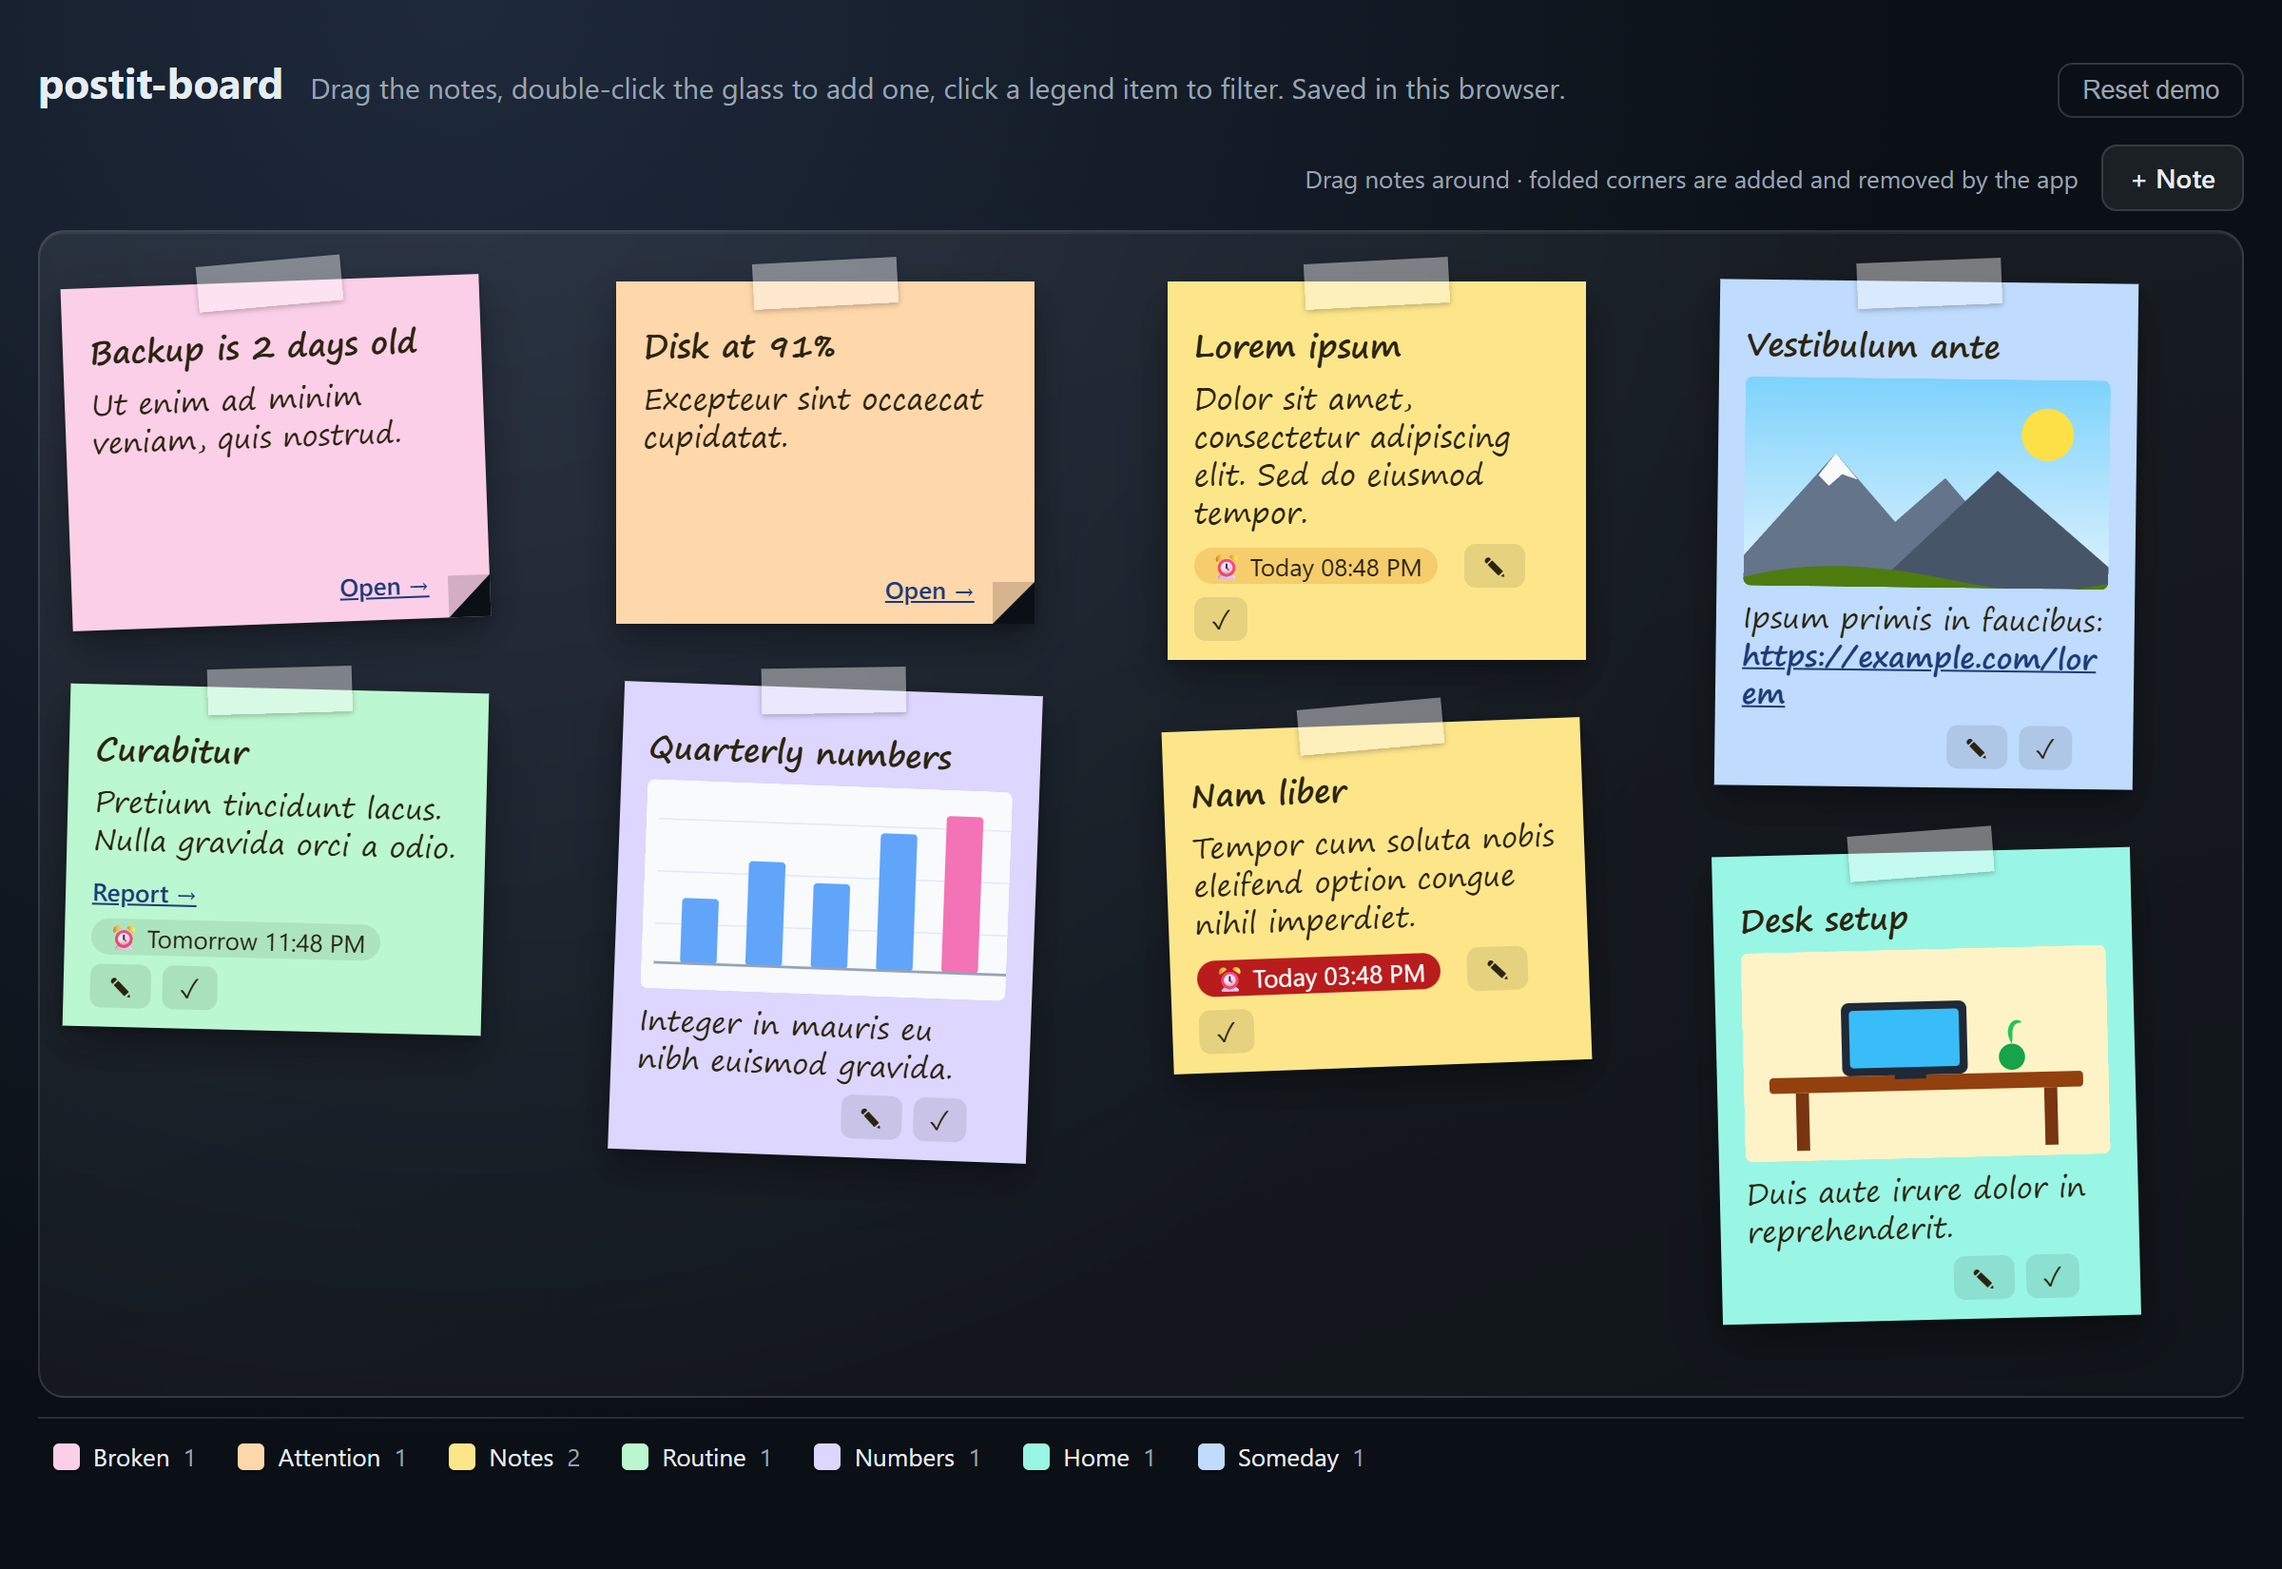
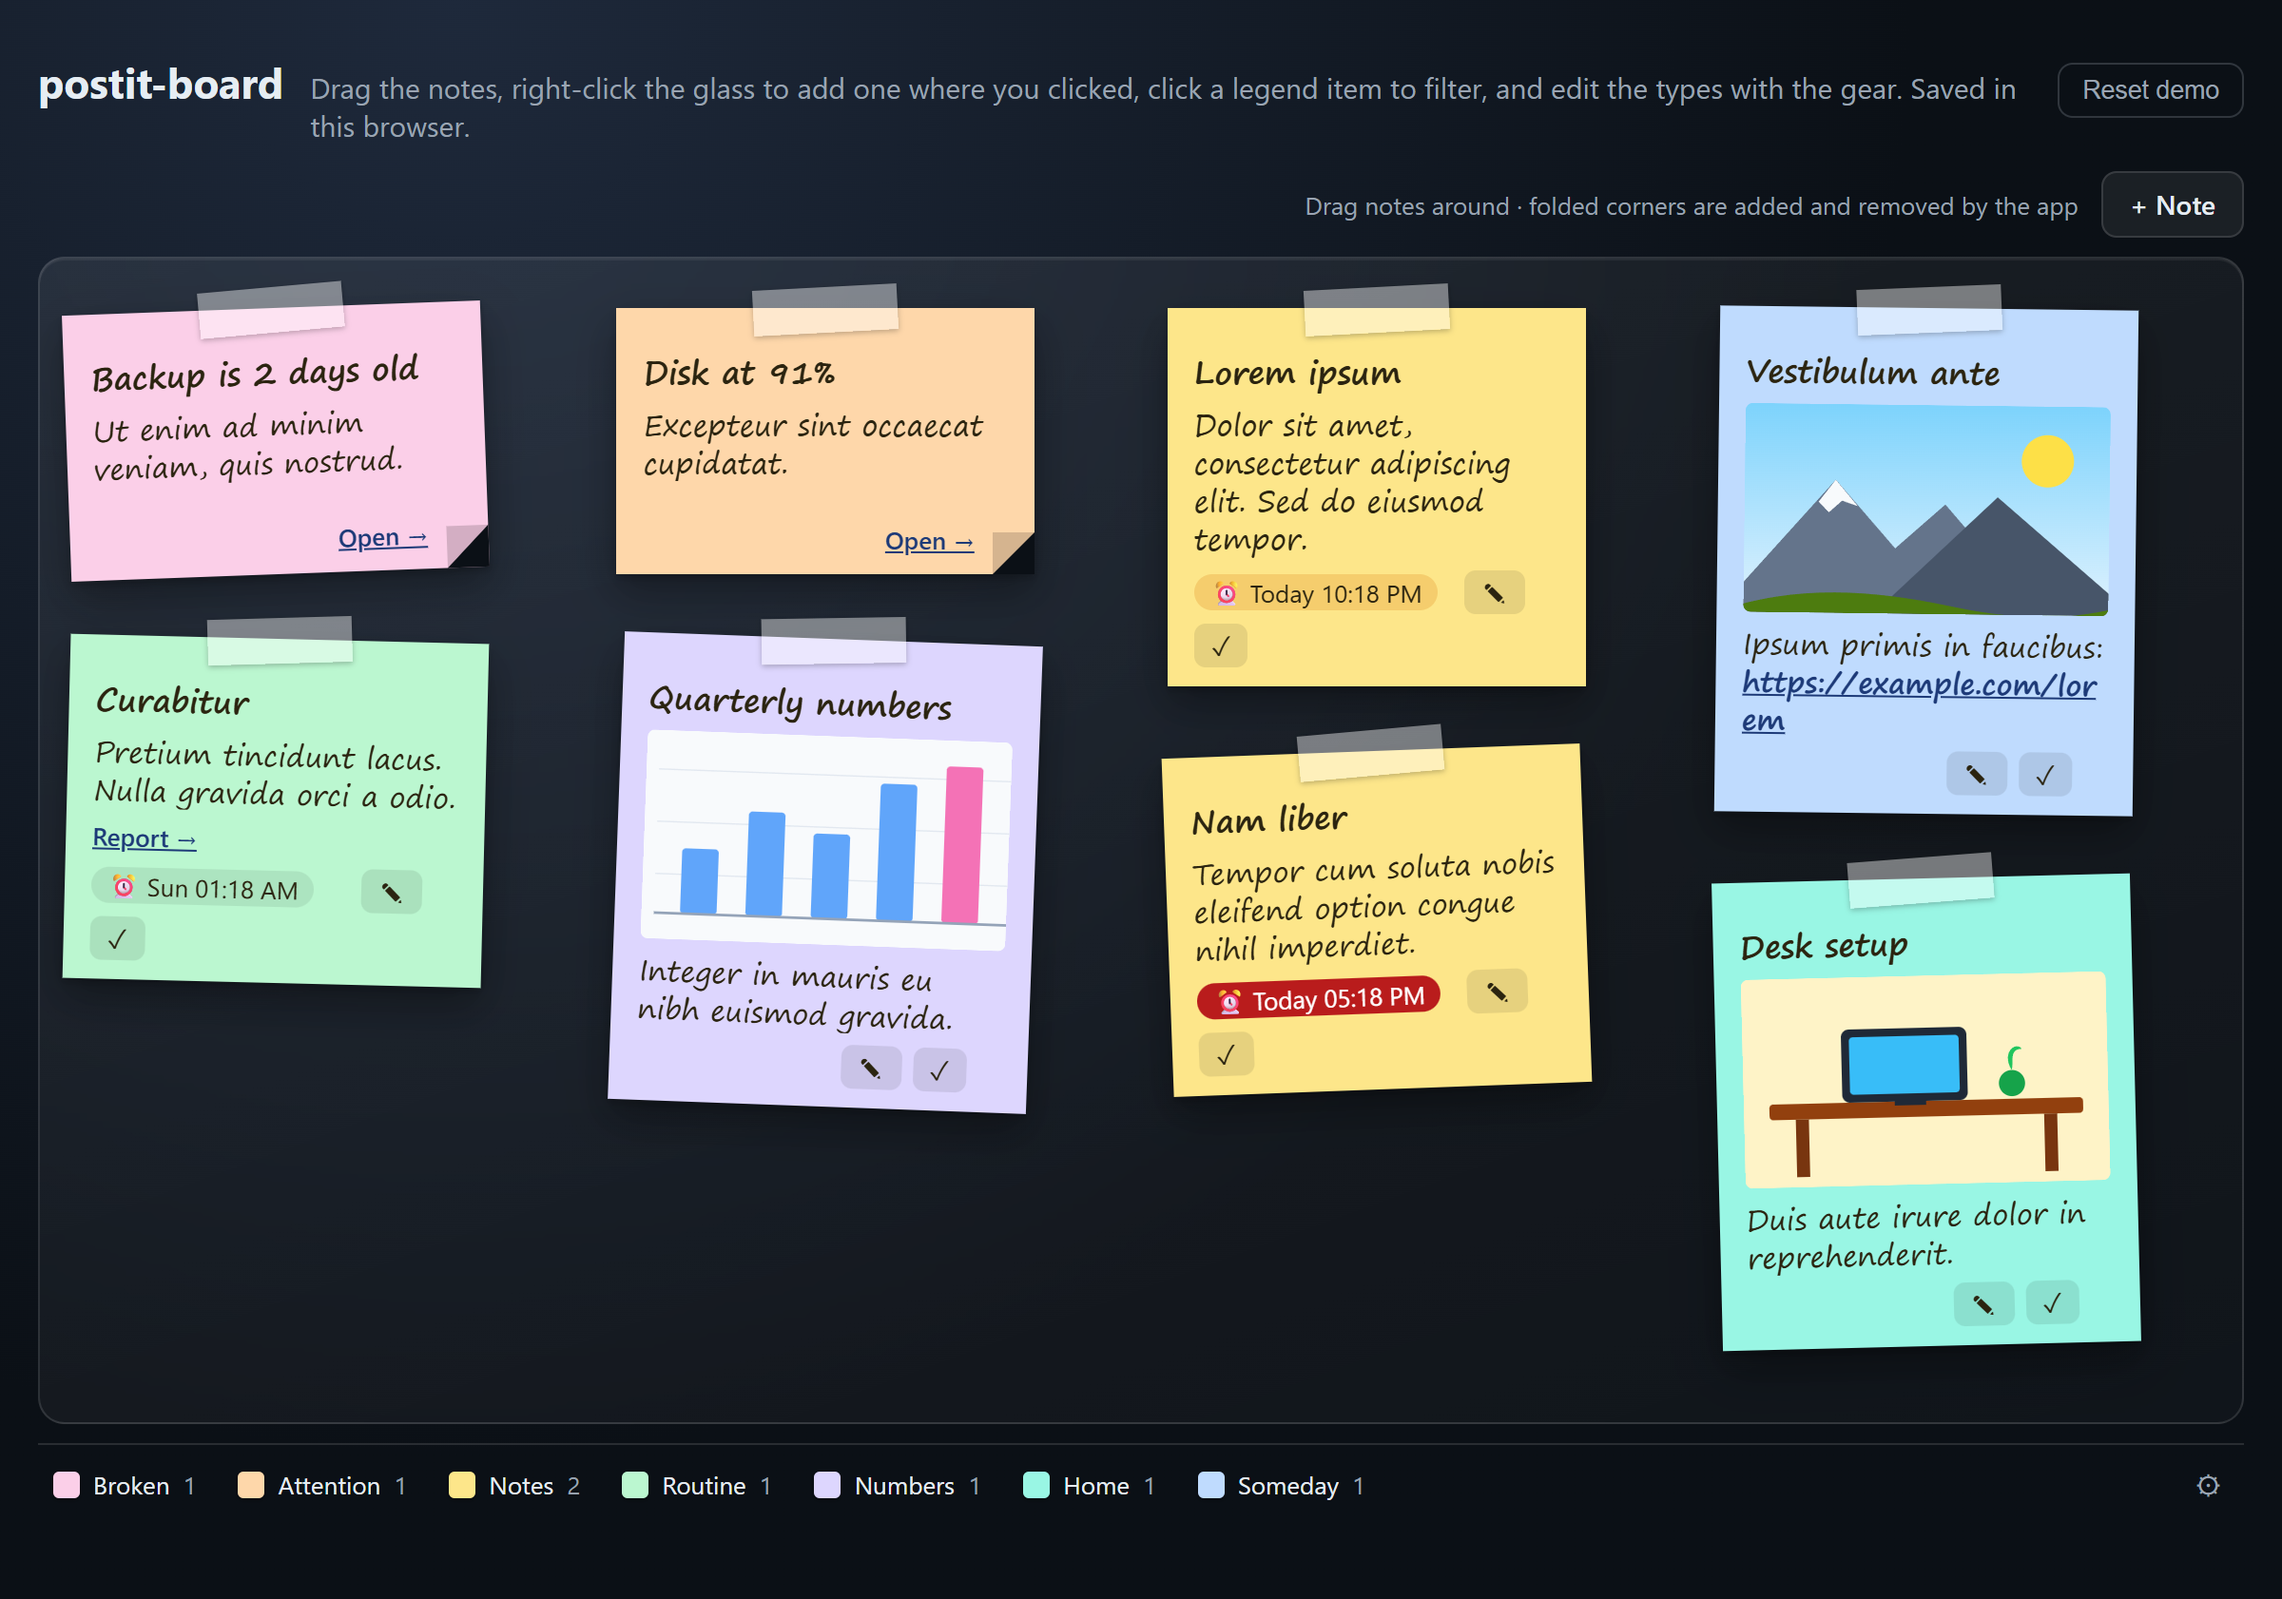
0.2.1: smaller notes, long text ends in an ellipsis

diff --git a/dist/postit-board.css b/dist/postit-board.css
@@ -9,7 +9,9 @@
   --pb-danger: #f87171;
   --pb-radius: 14px;
   --pb-note-width: min(220px, 23%);
-  --pb-note-min-height: 180px;
+  --pb-note-min-height: 140px;
+  --pb-title-lines: 2;
+  --pb-text-lines: 4;
   --pb-font: "Segoe Print", "Bradley Hand", "Comic Sans MS", cursive;
   --pb-ui-font: system-ui, -apple-system, "Segoe UI", Roboto, sans-serif;
   container-type: inline-size;
@@ -68,8 +70,11 @@
   position: absolute; top: -11px; left: 50%; width: 76px; height: 24px;
   transform: translateX(-50%) rotate(-3deg); background: rgba(255, 255, 255, 0.42); box-shadow: 0 1px 3px rgba(0, 0, 0, 0.25);
 }
-.pb-title { margin: 0; font-size: 16.5px; font-weight: 700; line-height: 1.25; }
-.pb-text { margin: 0; white-space: pre-wrap; overflow-wrap: anywhere; flex: 1; }
+.pb-title { margin: 0; font-size: 16.5px; font-weight: 700; line-height: 1.25; overflow-wrap: anywhere;
+  display: -webkit-box; -webkit-box-orient: vertical; -webkit-line-clamp: var(--pb-title-lines); line-clamp: var(--pb-title-lines); overflow: hidden; }
+/* long text ends in "…" (the full text is in the tooltip and in Edit); set --pb-text-lines: none to show everything */
+.pb-text { margin: 0; white-space: pre-wrap; overflow-wrap: anywhere;
+  display: -webkit-box; -webkit-box-orient: vertical; -webkit-line-clamp: var(--pb-text-lines); line-clamp: var(--pb-text-lines); overflow: hidden; }
 .pb-img { width: 100%; height: 110px; object-fit: cover; border-radius: 4px; pointer-events: none; }
 .pb-linkrow { margin: 0; font: 13px var(--pb-ui-font); overflow-wrap: anywhere; }
 .pb-note a { color: #1d3a78; font-weight: 600; }
@@ -119,7 +124,7 @@
   .pb-bar { justify-content: flex-end; }
   .pb-glass { display: grid; grid-template-columns: repeat(auto-fill, minmax(150px, 1fr)); gap: 22px 14px; padding: 22px 12px 14px; min-height: 0; }
   .pb-glass { --pb-height: auto; }
-  .pb-note { position: relative; left: auto; top: auto; width: auto; min-height: 150px; cursor: default; touch-action: auto; user-select: text; }
+  .pb-note { position: relative; left: auto; top: auto; width: auto; min-height: 120px; cursor: default; touch-action: auto; user-select: text; }
   .pb-empty { position: static; padding: 24px; }
 }
 

diff --git a/src/postit-board.css b/src/postit-board.css
@@ -9,7 +9,9 @@
   --pb-danger: #f87171;
   --pb-radius: 14px;
   --pb-note-width: min(220px, 23%);
-  --pb-note-min-height: 180px;
+  --pb-note-min-height: 140px;
+  --pb-title-lines: 2;
+  --pb-text-lines: 4;
   --pb-font: "Segoe Print", "Bradley Hand", "Comic Sans MS", cursive;
   --pb-ui-font: system-ui, -apple-system, "Segoe UI", Roboto, sans-serif;
   container-type: inline-size;
@@ -68,8 +70,11 @@
   position: absolute; top: -11px; left: 50%; width: 76px; height: 24px;
   transform: translateX(-50%) rotate(-3deg); background: rgba(255, 255, 255, 0.42); box-shadow: 0 1px 3px rgba(0, 0, 0, 0.25);
 }
-.pb-title { margin: 0; font-size: 16.5px; font-weight: 700; line-height: 1.25; }
-.pb-text { margin: 0; white-space: pre-wrap; overflow-wrap: anywhere; flex: 1; }
+.pb-title { margin: 0; font-size: 16.5px; font-weight: 700; line-height: 1.25; overflow-wrap: anywhere;
+  display: -webkit-box; -webkit-box-orient: vertical; -webkit-line-clamp: var(--pb-title-lines); line-clamp: var(--pb-title-lines); overflow: hidden; }
+/* long text ends in "…" (the full text is in the tooltip and in Edit); set --pb-text-lines: none to show everything */
+.pb-text { margin: 0; white-space: pre-wrap; overflow-wrap: anywhere;
+  display: -webkit-box; -webkit-box-orient: vertical; -webkit-line-clamp: var(--pb-text-lines); line-clamp: var(--pb-text-lines); overflow: hidden; }
 .pb-img { width: 100%; height: 110px; object-fit: cover; border-radius: 4px; pointer-events: none; }
 .pb-linkrow { margin: 0; font: 13px var(--pb-ui-font); overflow-wrap: anywhere; }
 .pb-note a { color: #1d3a78; font-weight: 600; }
@@ -119,7 +124,7 @@
   .pb-bar { justify-content: flex-end; }
   .pb-glass { display: grid; grid-template-columns: repeat(auto-fill, minmax(150px, 1fr)); gap: 22px 14px; padding: 22px 12px 14px; min-height: 0; }
   .pb-glass { --pb-height: auto; }
-  .pb-note { position: relative; left: auto; top: auto; width: auto; min-height: 150px; cursor: default; touch-action: auto; user-select: text; }
+  .pb-note { position: relative; left: auto; top: auto; width: auto; min-height: 120px; cursor: default; touch-action: auto; user-select: text; }
   .pb-empty { position: static; padding: 24px; }
 }
 

diff --git a/dist/postit-board.global.js b/dist/postit-board.global.js
@@ -1,4 +1,4 @@
-/*! postit-board v0.2.0 | MIT | https://github.com/rbritta/postit-board */
+/*! postit-board v0.2.1 | MIT | https://github.com/rbritta/postit-board */
 (function (global) {
 'use strict';
 /**
@@ -420,9 +420,9 @@ function createBoard(root, options = {}) {
         data-ref="${escapeHtml(ref)}" data-color="${escapeHtml(n.color)}"
         style="--pb-x:${n.x};--pb-y:${n.y}px;--pb-z:${n.z || 0};--pb-r:${tilt(ref)}deg;--pb-note:${escapeHtml(swatch)}">
       <span class="pb-tape" aria-hidden="true"></span>
-      ${n.title ? `<h3 class="pb-title">${escapeHtml(n.title)}</h3>` : ''}
+      ${n.title ? `<h3 class="pb-title" title="${escapeHtml(n.title)}">${escapeHtml(n.title)}</h3>` : ''}
       ${n.image ? `<img class="pb-img" src="${escapeHtml(n.image)}" alt="" loading="lazy" draggable="false">` : ''}
-      ${n.text ? `<p class="pb-text">${linkify(n.text)}</p>` : ''}
+      ${n.text ? `<p class="pb-text" title="${escapeHtml(n.text)}">${linkify(n.text)}</p>` : ''}
       ${link && !n.auto ? `<p class="pb-linkrow">${link}</p>` : ''}
       <div class="pb-foot">${due}<span class="pb-spacer"></span>${n.auto ? link : ''}${actions}</div>
     </article>`;

diff --git a/src/postit-board.js b/src/postit-board.js
@@ -219,9 +219,9 @@ export function createBoard(root, options = {}) {
         data-ref="${escapeHtml(ref)}" data-color="${escapeHtml(n.color)}"
         style="--pb-x:${n.x};--pb-y:${n.y}px;--pb-z:${n.z || 0};--pb-r:${tilt(ref)}deg;--pb-note:${escapeHtml(swatch)}">
       <span class="pb-tape" aria-hidden="true"></span>
-      ${n.title ? `<h3 class="pb-title">${escapeHtml(n.title)}</h3>` : ''}
+      ${n.title ? `<h3 class="pb-title" title="${escapeHtml(n.title)}">${escapeHtml(n.title)}</h3>` : ''}
       ${n.image ? `<img class="pb-img" src="${escapeHtml(n.image)}" alt="" loading="lazy" draggable="false">` : ''}
-      ${n.text ? `<p class="pb-text">${linkify(n.text)}</p>` : ''}
+      ${n.text ? `<p class="pb-text" title="${escapeHtml(n.text)}">${linkify(n.text)}</p>` : ''}
       ${link && !n.auto ? `<p class="pb-linkrow">${link}</p>` : ''}
       <div class="pb-foot">${due}<span class="pb-spacer"></span>${n.auto ? link : ''}${actions}</div>
     </article>`;

diff --git a/README.md b/README.md
@@ -90,7 +90,7 @@ The returned board has `update({ notes?, auto?, positions? })`, `reload()`, `con
 
 The legend people saved comes back in `store.load()` and is merged over the one you pass (`mergeLegend`): their order, names and colors win, and your `locked` types are always there. A note whose type was removed keeps its color, it just leaves the legend.
 
-Built-in colors: `yellow`, `pink`, `green`, `blue`, `orange`, `purple`, `teal`, `gray`. Styling is plain CSS custom properties on `.pb` (`--pb-accent`, `--pb-note-width`, `--pb-font`…). Add `data-theme="light"` for light pages.
+Built-in colors: `yellow`, `pink`, `green`, `blue`, `orange`, `purple`, `teal`, `gray`. Styling is plain CSS custom properties on `.pb` (`--pb-accent`, `--pb-note-width`, `--pb-font`, `--pb-text-lines` and `--pb-title-lines` for where long text is cut with "…"…). Add `data-theme="light"` for light pages.
 
 ## Server
 

diff --git a/CHANGELOG.md b/CHANGELOG.md
@@ -1,5 +1,10 @@
 # Changelog
 
+## 0.2.1 (2026-11-13)
+
+- Smaller notes: long titles stop at 2 lines and long text at 4, ending in "…". The full text is in the tooltip and in Edit. Tune with `--pb-title-lines` / `--pb-text-lines` (`none` shows everything).
+- Minimum note height 180 → 140 px (120 px in the narrow list).
+
 ## 0.2.0 (2026-11-13)
 
 - Right-click the glass: a menu of the note types (with their meanings) creates a note exactly where you clicked. Double-click lands there too now.
